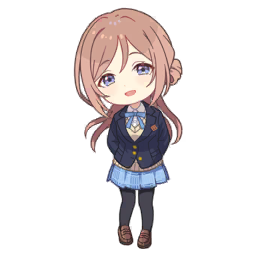
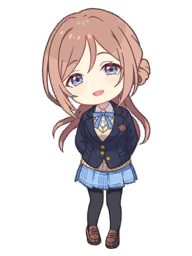
(GUI) Implement media type & character filters
Have to move alias lookup tables to utils.js to prevent duplicate declarations
Also trim the figures (CSS is giving me a headache)

Changed region(s): [[0.2188, 0.0312, 0.8125, 1.0]]

diff --git a/static/js/searchform.js b/static/js/searchform.js
@@ -1,4 +1,43 @@
+function keywordFilter(alias) {
+    let query = $("#searchInput").val();
+    if (query !== "" && query.slice(-1) !== " ") {
+        // the user has typed something, but we need a trailing space
+        // to recognize our alias as a separate keyword
+        query += " ";
+    }
+    $("#searchInput").val(`${query}${alias} `); // so the user can directly continue
+    $("#searchInput").focus();
+}
+
+function buildFiltersMenu() {
+    for (let alias in MEDIA_TYPE_ALIAS) {
+        let name = MEDIA_TYPE_ALIAS[alias];
+        let column = $("<div>").addClass("col-md-3");
+        let button = $("<button>")
+            .attr("type", "button") // otherwise submits the form
+            .addClass("btn btn-outline-primary btn-sm w-100 mb-2")
+            .attr("onclick", `keywordFilter('${alias}')`)
+            .text(name);
+        column.append(button);
+        $("#filtersMediaTypeContainer").append(column);
+    }
+
+    for (let alias in CHARACTER_ALIAS) {
+        let name = CHARACTER_ALIAS[alias];
+        let column = $("<div>").addClass("col-md-1");
+        let img = $("<img>")
+            .attr("src", `../static/img/figure/${alias}.png`) // Jinja's url_for doesn't work here
+            .attr("id", "filtersCharacterFigure")
+            .attr("alt", name)
+            .attr("onclick", `keywordFilter('${alias}')`);
+        column.append(img);
+        $("#filtersCharacterContainer").append(column);
+    }
+}
+
 $(document).ready(function () {
+    buildFiltersMenu();
+
     $("#searchForm").submit(function (event) {
         event.preventDefault();
         let query = $("#searchInput").val();

diff --git a/static/js/utils.js b/static/js/utils.js
@@ -1,3 +1,29 @@
+const MEDIA_TYPE_ALIAS = {
+    "img": "Image",
+    "sud": "Audio",
+    "mov": "Video",
+    "adv": "Story",
+    "mdl": "Model",
+    "mot": "Motion",
+    "env": "Environment",
+    "fbx": "FBX",
+};
+
+const CHARACTER_ALIAS = {
+    "hski": "Hanami Saki",
+    "ttmr": "Tsukimura Temari",
+    "fktn": "Fujita Kotone",
+    "amao": "Arimura Mao",
+    "kllj": "Katsuragi Lilja",
+    "kcna": "Kuramoto China",
+    "ssmk": "Shiun Sumika",
+    "shro": "Shinosawa Hiro",
+    "hrnm": "Himesaki Rinami",
+    "hume": "Hanami Ume",
+    "hmsz": "Hataya Misuzu",
+    "jsna": "Juo Sena",
+};
+
 function dumpErrorToConsole(...args) {
     var name_of_parent_function = arguments.callee.caller.name;
     console.log("Error in " + name_of_parent_function);

diff --git a/templates/searchform.html b/templates/searchform.html
@@ -20,14 +20,14 @@
             Filters <span class="bi bi-caret-down-fill"></span>
         </button>
         <div id="filtersMenu" class="text-size-125-force hide-by-default">
-            <div class="row">
+            <div class="row mb-1">
                 <div class="col-md-12 align-left">By media type</div>
             </div>
             <div class="row" id="filtersMediaTypeContainer"></div>
-            <div class="row mt-3">
+            <div class="row mt-2 mb-1">
                 <div class="col-md-12 align-left">By character</div>
             </div>
-            <div class="row" id="filtersCharacterContainer"></div>
+            <div class="row gx-1" id="filtersCharacterContainer"></div>
         </div>
     </div>
 </form>

diff --git a/static/css/searchform.css b/static/css/searchform.css
@@ -57,3 +57,19 @@
     box-shadow: 0 2px 8px rgba(0, 0, 0, 0.15);
     z-index: 9999;
 }
+
+#filtersCharacterFigure {
+    max-width: 100%; /* the figures are quite small */
+    padding: 0.1rem;
+    overflow: hidden;
+    cursor: pointer;
+    border-radius: 0.5rem;
+    transition: background-color 0.3s;
+}
+#filtersCharacterFigure:hover {
+    background-color: #eee;
+}
+#filtersCharacterFigure:active {
+    background-color: lightgray;
+}
+/* Fine, we could've used some button class */
